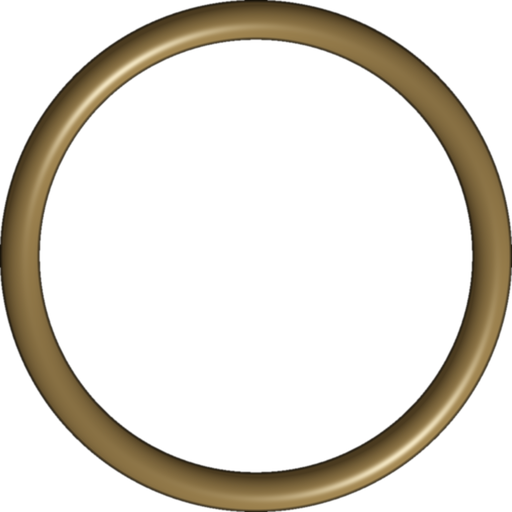
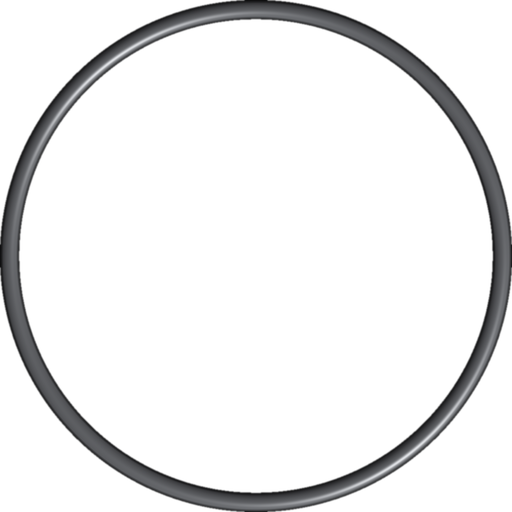
fix(seats): a thin steel rim, so the face leads and the frame does not

Changed region(s): [[0.0, 0.0, 1.0, 1.0]]

diff --git a/components/PlayerSeat.tsx b/components/PlayerSeat.tsx
@@ -182,7 +182,7 @@ export function PlayerSeat({
       {/* The portrait, and whose turn it is drawn around it rather than around a plate. */}
       <div
         className={cn(
-          'seat-ring relative z-10 rounded-full p-[7%] transition-colors',
+          'seat-ring relative z-10 rounded-full p-[3.5%] transition-colors',
           isActing ? 'animate-turn-ring' : isWinner && 'animate-winner',
           isOut && 'opacity-60',
         )}

diff --git a/scripts/render-seat-ring.py b/scripts/render-seat-ring.py
@@ -22,14 +22,15 @@ SIZE = 512
 SS = 2  # supersampling
 
 # The band, as fractions of the radius: where the metal starts and stops.
-INNER = 0.845
+INNER = 0.925
 OUTER = 1.0
 
-# Brass, from its darkest to its brightest. The same champagne the rest of the
-# room is lettered in, so the seat belongs to the table it sits on.
-DARK = np.array([54, 41, 20], np.float32)
-MID = np.array([166, 138, 84], np.float32)
-LIT = np.array([252, 240, 206], np.float32)
+# Steel rather than brass, and narrow: a rim round a portrait, the way ClubGG
+# sets one. A wide gold bead made the frame louder than the face inside it,
+# which is the wrong way round — the champagne stays on the lettering.
+DARK = np.array([28, 28, 30], np.float32)
+MID = np.array([116, 118, 122], np.float32)
+LIT = np.array([238, 240, 244], np.float32)
 
 
 def main():
